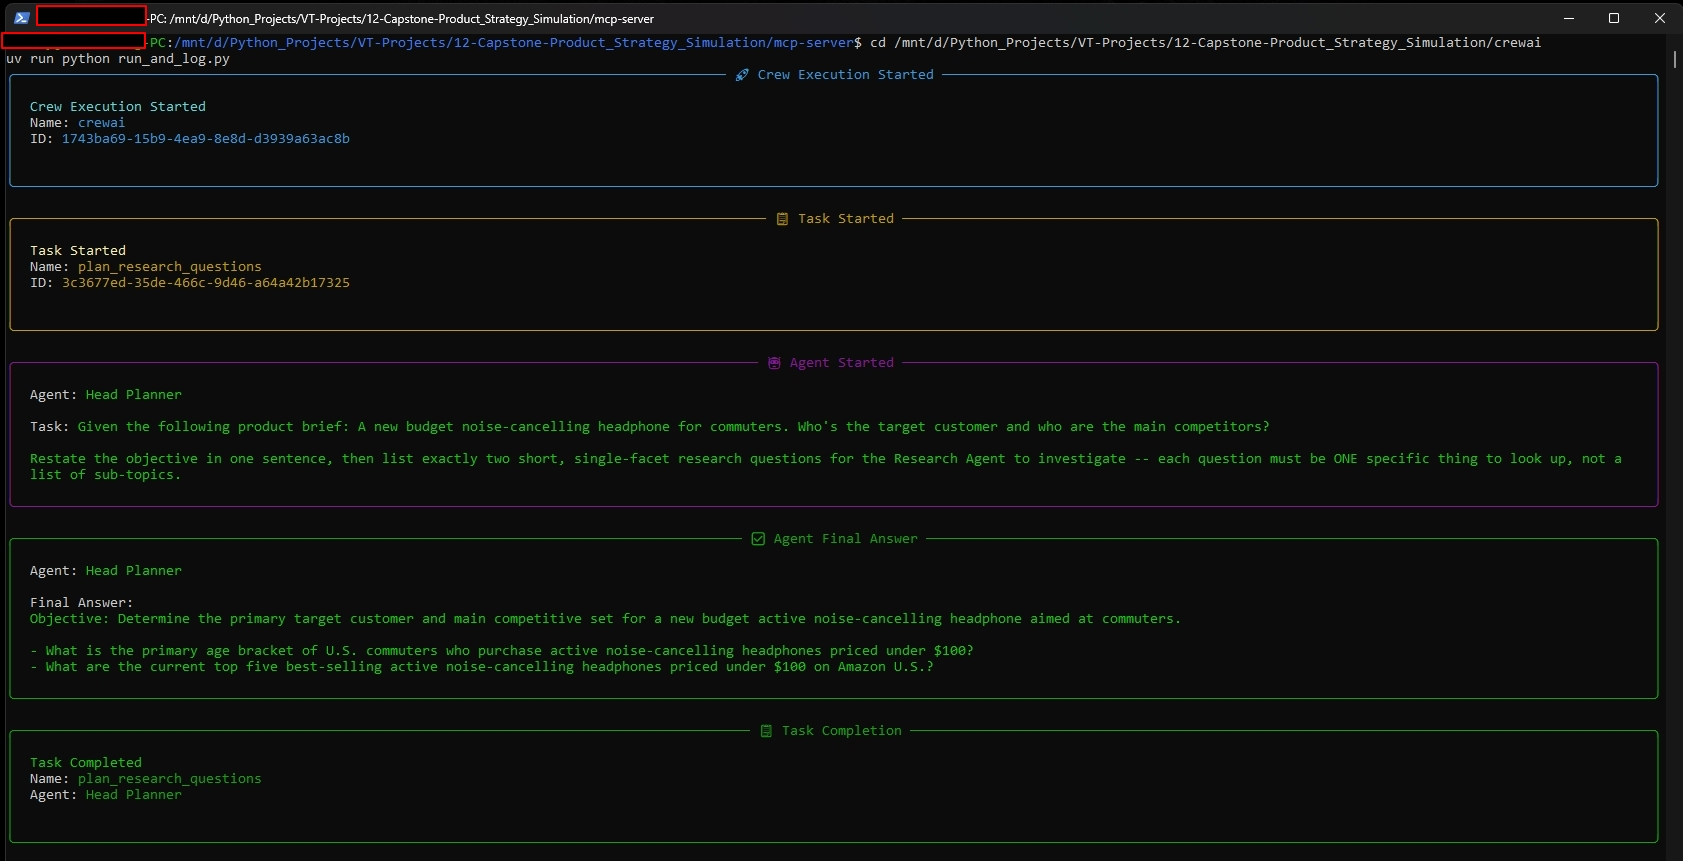
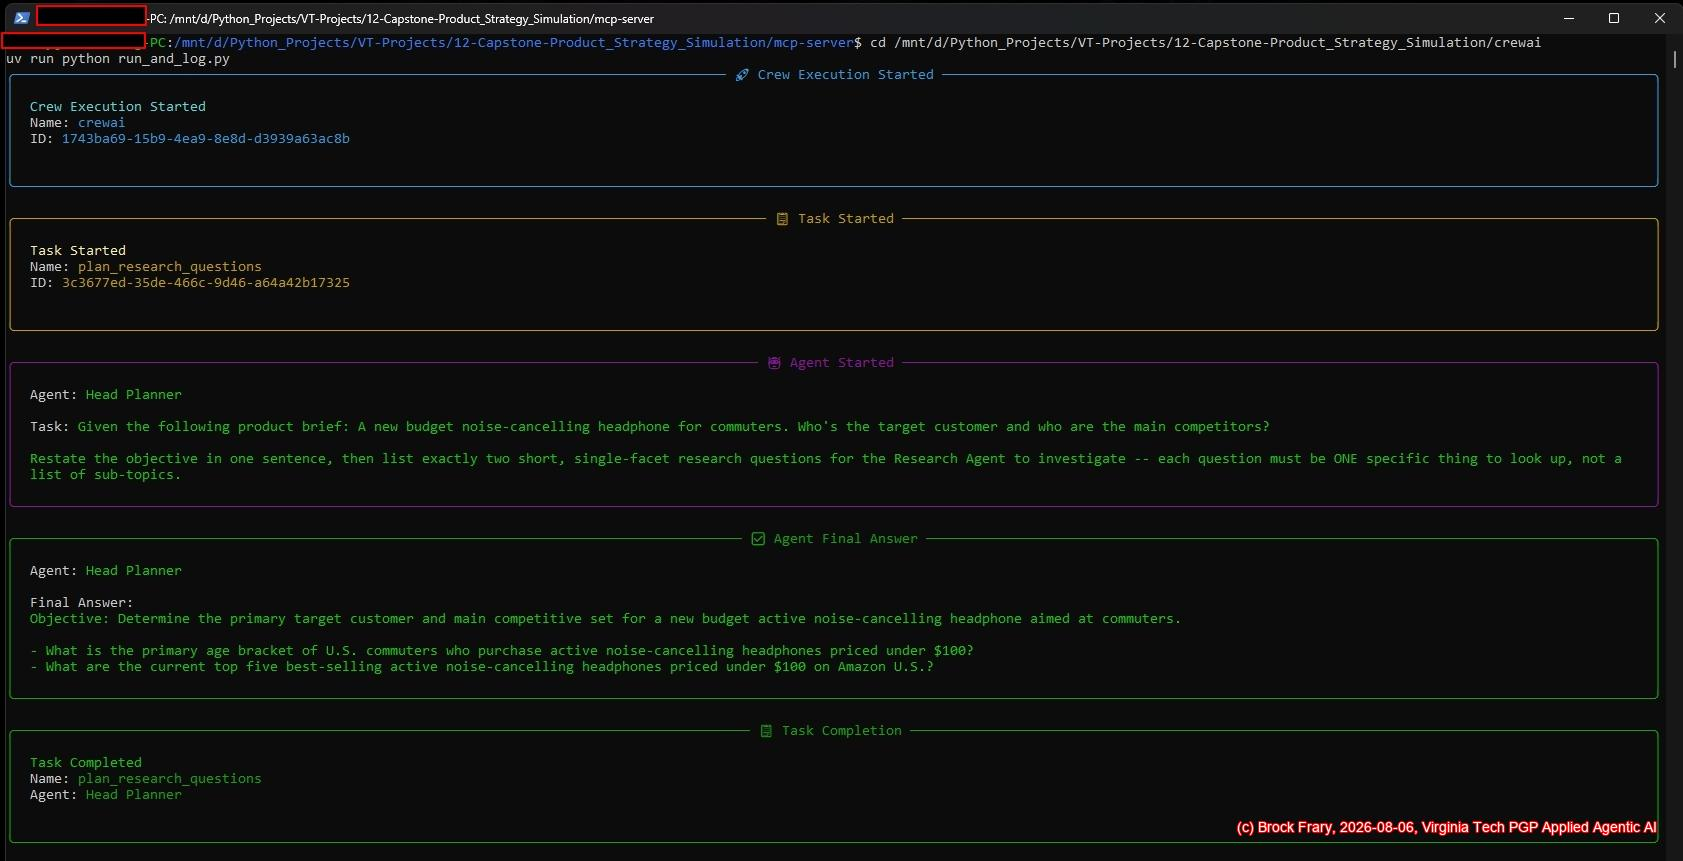
Replace tracked screenshots with watermarked versions
Screenshots now carry a visible watermark before being published to
GitHub. Unwatermarked originals and local watermarking working
folders are gitignored, never committed.

Changed region(s): [[0.7415, 0.9361, 0.9887, 0.9663], [0.0309, 0.0302, 0.0927, 0.0604]]

diff --git a/README.md b/README.md
@@ -25,7 +25,7 @@ A startup's project brief goes in; a founder-ready go-to-market plan comes out -
 
 > **Status:** ✅ Project complete (environment setup, MCP server, n8n implementation, CrewAI implementation, testing, the n8n-vs-CrewAI comparison, and documentation/submission packaging), plus a full rubric audit confirming every requirement is genuinely met against real project files. Both implementations run end-to-end against the same fixed test brief with real cost/latency/reliability data (`comparison/report.md`): n8n averages **$0.0642**/run and **1m 59.4s**/run; CrewAI averages **$0.1379**/run and **6m 39.0s**/run — both comfortably under the $0.50/run budget cap and 100% reliable across 15 logged runs. Human rubric review: both implementations avg **4.33/5**. All deliverables present (see Deliverables below); the reflection document's Personal Reflections section still needs the author's own review before final submission. This README is the north-star spec for the project.
 >
-> **Reflection Document:** [reflection.pdf](reflection.pdf) · **Full Build History:** [ROADMAP.md](ROADMAP.md)
+> **Full Build History:** [ROADMAP.md](ROADMAP.md) | **Environment Setup:** [SETUP.md](SETUP.md)
 
 ## Overview
 
